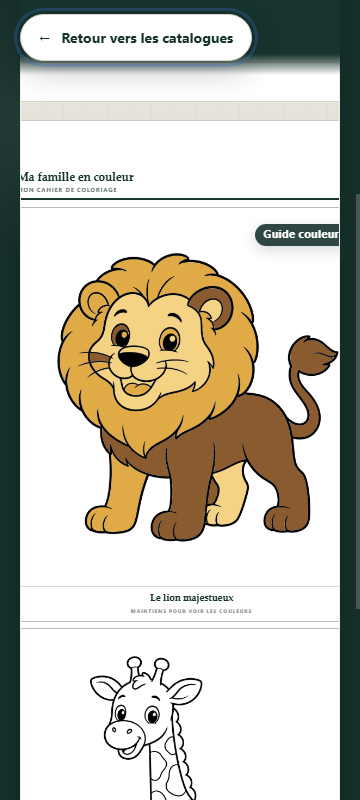
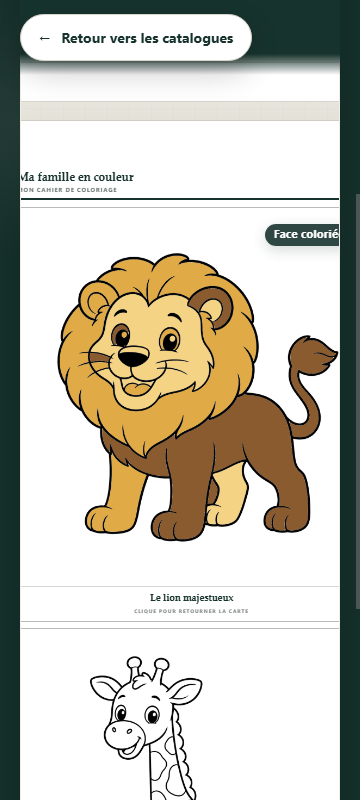
Remplace le maintien par un retournement au clic

diff --git a/app.js b/app.js
@@ -12,14 +12,6 @@ const state = {
   surpriseGeneration: 0,
   toastTimer: null,
   catalogueReturnTarget: null,
-  colorGuide: {
-    image: null,
-    pointerId: null,
-    timer: null,
-    startX: 0,
-    startY: 0,
-  },
-  colorGuidePreloads: new Map(),
 };
 
 if (typeof window !== "undefined") {
@@ -236,18 +228,8 @@ function bindGlobalEvents() {
   document
     .getElementById("close-catalogue")
     ?.addEventListener("click", closeCatalogueViewer);
-  document.addEventListener("pointerover", (event) => {
-    preloadColoredGuide(guideImageFromTarget(event.target));
-  });
-  document.addEventListener("pointerdown", handleGuidePointerDown);
-  document.addEventListener("pointermove", handleGuidePointerMove);
-  document.addEventListener("pointerup", handleGuidePointerEnd);
-  document.addEventListener("pointercancel", handleGuidePointerEnd);
-  document.addEventListener("contextmenu", (event) => {
-    if (guideImageFromTarget(event.target)) event.preventDefault();
-  });
-  window.addEventListener("blur", restoreColoredGuide);
-  window.addEventListener("beforeprint", restoreColoredGuide);
+  document.addEventListener("click", handleColorFlipClick);
+  window.addEventListener("beforeprint", resetColorFlips);
   window.addEventListener("afterprint", clearPrintArea);
   document.addEventListener(
     "error",
@@ -457,12 +439,7 @@ function renderWorkspace() {
   renderCatalogueInfo(catalogue);
   renderPageNavigation();
   const viewer = document.getElementById("page-viewer");
-  if (viewer) {
-    viewer.innerHTML = renderSheet(catalogue, state.selectedPage);
-    viewer
-      .querySelectorAll("img[data-colored-src]")
-      .forEach((image) => preloadColoredGuide(image));
-  }
+  if (viewer) viewer.innerHTML = renderSheet(catalogue, state.selectedPage);
   const previous = document.getElementById("previous-page");
   const next = document.getElementById("next-page");
   if (previous) previous.disabled = state.selectedPage === 1;
@@ -549,11 +526,11 @@ function renderSheet(catalogue, pageNumber) {
             (entry) => `
               <section class="drawing-card">
                 <div class="drawing-card__art">
-                  ${imageMarkup(entry, "drawing-card__image")}
+                  ${colorFlipMarkup(entry, "drawing-card__image")}
                 </div>
                 <div class="drawing-card__footer">
                   <strong>${escapeHtml(entry.title)}</strong>
-                  <span>Maintiens pour voir les couleurs</span>
+                  <span>Clique pour retourner la carte</span>
                 </div>
               </section>
             `,
@@ -586,108 +563,62 @@ function imageMarkup(entry, className) {
   `;
 }
 
-function guideImageFromTarget(target) {
-  if (!(target instanceof Element)) return null;
-  const image = target.closest(
-    ".drawing-card__image[data-colored-src], .surprise__preview-image[data-colored-src]",
+function colorFlipMarkup(entry, imageClass) {
+  if (!entry?.path || !entry?.coloredPath) {
+    return `<p class="asset-error" role="alert">Paire d’images manquante.</p>`;
+  }
+  return `
+    <button
+      class="color-flip-card"
+      type="button"
+      data-color-flip
+      aria-pressed="false"
+      aria-label="Afficher la version coloriée de ${escapeAttribute(entry.title)}"
+    >
+      <span class="color-flip-card__inner">
+        <img
+          class="${escapeAttribute(imageClass)} color-flip-card__face color-flip-card__front"
+          src="${escapeAttribute(entry.path)}"
+          alt="${escapeAttribute(entry.title)}"
+          data-asset-id="${escapeAttribute(entry.id)}"
+          loading="eager"
+          decoding="async"
+        />
+        <img
+          class="color-flip-card__image color-flip-card__face color-flip-card__back"
+          src="${escapeAttribute(entry.coloredPath)}"
+          alt=""
+          aria-hidden="true"
+          data-asset-id="${escapeAttribute(entry.id)}-color"
+          loading="eager"
+          decoding="async"
+        />
+      </span>
+    </button>
+  `;
+}
+
+function handleColorFlipClick(event) {
+  if (!(event.target instanceof Element)) return;
+  const card = event.target.closest("[data-color-flip]");
+  if (!card) return;
+  const showColor = !card.classList.contains("is-color-visible");
+  card.classList.toggle("is-color-visible", showColor);
+  card.setAttribute("aria-pressed", String(showColor));
+  const title = card.querySelector(".color-flip-card__front")?.alt || "l’image";
+  card.setAttribute(
+    "aria-label",
+    showColor
+      ? `Afficher la version noir et blanc de ${title}`
+      : `Afficher la version coloriée de ${title}`,
   );
-  return image?.dataset.coloredSrc ? image : null;
 }
 
-function preloadColoredGuide(image) {
-  if (!image?.dataset.coloredSrc) return Promise.resolve();
-  const source = image.dataset.coloredSrc;
-  const cached = state.colorGuidePreloads.get(source);
-  if (cached) return cached.promise;
-
-  const preload = new Image();
-  const promise = new Promise((resolve, reject) => {
-    preload.addEventListener("load", () => {
-      image.dataset.colorPreloaded = "true";
-      resolve();
-    }, { once: true });
-    preload.addEventListener("error", () => {
-      state.colorGuidePreloads.delete(source);
-      reject(new Error(`Guide coloré indisponible : ${source}`));
-    }, { once: true });
+function resetColorFlips() {
+  document.querySelectorAll("[data-color-flip].is-color-visible").forEach((card) => {
+    card.classList.remove("is-color-visible");
+    card.setAttribute("aria-pressed", "false");
   });
-  state.colorGuidePreloads.set(source, { image: preload, promise });
-  preload.src = source;
-  return promise;
-}
-
-function showColoredGuide(image, pointerId = null) {
-  if (!image?.dataset.coloredSrc) return;
-  restoreColoredGuide();
-  state.colorGuide.image = image;
-  state.colorGuide.pointerId = pointerId;
-  image.closest(".drawing-card__art, .catalogue-card__media, .surprise__preview")
-    ?.classList.add("is-showing-color-guide");
-  preloadColoredGuide(image)
-    .then(() => {
-      if (
-        state.colorGuide.image === image &&
-        state.colorGuide.pointerId === pointerId
-      ) {
-        image.src = image.dataset.coloredSrc;
-      }
-    })
-    .catch((error) => {
-      console.error(error);
-      if (state.colorGuide.image === image) restoreColoredGuide();
-    });
-}
-
-function restoreColoredGuide() {
-  const guide = state.colorGuide;
-  if (guide.timer) window.clearTimeout(guide.timer);
-  if (guide.image?.isConnected) {
-    guide.image.src = guide.image.dataset.lineArtSrc;
-    guide.image
-      .closest(".drawing-card__art, .catalogue-card__media, .surprise__preview")
-      ?.classList.remove("is-showing-color-guide");
-  }
-  guide.image = null;
-  guide.pointerId = null;
-  guide.timer = null;
-}
-
-function handleGuidePointerDown(event) {
-  const image = guideImageFromTarget(event.target);
-  if (!image) return;
-
-  if (event.pointerType === "mouse") {
-    if (event.button !== 2) return;
-    event.preventDefault();
-    showColoredGuide(image, event.pointerId);
-    return;
-  }
-
-  if (!event.isPrimary) return;
-  restoreColoredGuide();
-  preloadColoredGuide(image);
-  state.colorGuide.image = image;
-  state.colorGuide.pointerId = event.pointerId;
-  state.colorGuide.startX = event.clientX;
-  state.colorGuide.startY = event.clientY;
-  state.colorGuide.timer = window.setTimeout(() => {
-    const activeImage = state.colorGuide.image;
-    const pointerId = state.colorGuide.pointerId;
-    state.colorGuide.timer = null;
-    showColoredGuide(activeImage, pointerId);
-  }, 420);
-}
-
-function handleGuidePointerMove(event) {
-  const guide = state.colorGuide;
-  if (event.pointerId !== guide.pointerId || !guide.timer) return;
-  if (Math.hypot(event.clientX - guide.startX, event.clientY - guide.startY) > 12) {
-    restoreColoredGuide();
-  }
-}
-
-function handleGuidePointerEnd(event) {
-  if (event.pointerId === state.colorGuide.pointerId) restoreColoredGuide();
 }
 
 async function generateSurpriseCatalogue() {
@@ -837,7 +768,7 @@ function appendSurprisePreview(entry) {
   const figure = document.createElement("figure");
   figure.className = "surprise__preview";
   figure.innerHTML = `
-    ${imageMarkup(entry, "surprise__preview-image")}
+    ${colorFlipMarkup(entry, "surprise__preview-image")}
     <figcaption>
       <strong>${escapeHtml(entry.title)}</strong>
       <span>${escapeHtml(entry.catalogueTitle)}</span>

diff --git a/styles.css b/styles.css
@@ -43,18 +43,59 @@
   background: #fff;
 }
 
-img[data-colored-src] {
+.color-flip-card img {
   -webkit-user-drag: none;
   -webkit-touch-callout: none;
   user-select: none;
 }
 
-.catalogue-card__media,
-.surprise__preview {
+.color-flip-card {
   position: relative;
+  display: block;
+  width: 100%;
+  height: 100%;
+  min-height: 0;
+  padding: 0;
+  border: 0;
+  color: inherit;
+  background: transparent;
+  cursor: pointer;
+  perspective: 1100px;
 }
 
-.is-showing-color-guide::after {
+.color-flip-card__inner {
+  position: relative;
+  display: block;
+  width: 100%;
+  height: 100%;
+  transform-style: preserve-3d;
+  transition: transform 560ms cubic-bezier(0.22, 0.72, 0.24, 1);
+}
+
+.color-flip-card.is-color-visible .color-flip-card__inner {
+  transform: rotateY(180deg);
+}
+
+.color-flip-card__face {
+  position: absolute;
+  inset: 0;
+  width: 100%;
+  height: 100%;
+  object-fit: contain;
+  backface-visibility: hidden;
+  -webkit-backface-visibility: hidden;
+}
+
+.color-flip-card__back {
+  transform: rotateY(180deg);
+}
+
+.color-flip-card:focus-visible {
+  outline: 3px solid var(--blue);
+  outline-offset: -3px;
+}
+
+.color-flip-card.is-color-visible::after {
   position: absolute;
   z-index: 3;
   top: 0.55rem;
@@ -64,7 +105,7 @@ img[data-colored-src] {
   color: #fff;
   background: rgb(23 51 45 / 90%);
   box-shadow: 0 4px 14px rgb(23 51 45 / 18%);
-  content: "Guide couleurs";
+  content: "Face coloriée";
   font: 700 0.68rem/1 var(--sans);
   letter-spacing: 0.03em;
   pointer-events: none;
@@ -161,6 +202,10 @@ img[data-colored-src] {
 }
 
 .surprise__preview-image {
+  aspect-ratio: 1;
+}
+
+.surprise__preview .color-flip-card {
   aspect-ratio: 1;
 }
 
@@ -2221,6 +2266,15 @@ body.catalogue-viewer-open {
     padding: 4mm 4mm 3mm;
     border: 0.45mm solid #505653;
     border-radius: 2.2mm;
+  }
+
+  .print-area .color-flip-card__inner {
+    transform: none !important;
+  }
+
+  .print-area .color-flip-card__back,
+  .print-area .color-flip-card::after {
+    display: none !important;
   }
 
   .print-area .sheet-header__brand strong {

diff --git a/index.html b/index.html
@@ -10,7 +10,7 @@
     />
     <title>Ma famille en couleur — Catalogues de coloriage</title>
     <link rel="icon" href="favicon.svg" type="image/svg+xml" />
-    <link rel="stylesheet" href="styles.css?v=20260718-4" />
+    <link rel="stylesheet" href="styles.css?v=20260718-6" />
   </head>
   <body>
     <a class="skip-link" href="#catalogues">Aller aux catalogues</a>
@@ -254,6 +254,6 @@
     <div id="status-toast" class="status-toast" role="status" aria-live="polite"></div>
     <div id="print-area" class="print-area" aria-hidden="true"></div>
 
-    <script src="app.js?v=20260718-5"></script>
+    <script src="app.js?v=20260718-6"></script>
   </body>
 </html>

diff --git a/README.md b/README.md
@@ -36,10 +36,10 @@ de `output/Extract` sont préservées. Les 120 illustrations antérieures n’on
 
 ## Guide des couleurs
 
-Sur ordinateur, maintenir le bouton droit sur une illustration affiche son
-jumeau coloré ; le relâchement rétablit immédiatement le dessin au trait. Sur
-smartphone ou tablette, le même résultat s’obtient par un appui long maintenu.
-Un mouvement annule l’appui long afin de préserver le défilement tactile.
+Un clic ou toucher normal retourne l’illustration de 180 degrés autour de son
+axe vertical et affiche son jumeau coloré. Le clic suivant retourne à nouveau
+la carte et rétablit le dessin au trait. L’alternance fonctionne sans limite,
+sur ordinateur comme sur smartphone ou tablette.
 
 Les pages imprimables utilisent toujours les sources noir et blanc. Les jumeaux
 colorés peuvent être régénérés de manière déterministe avec :